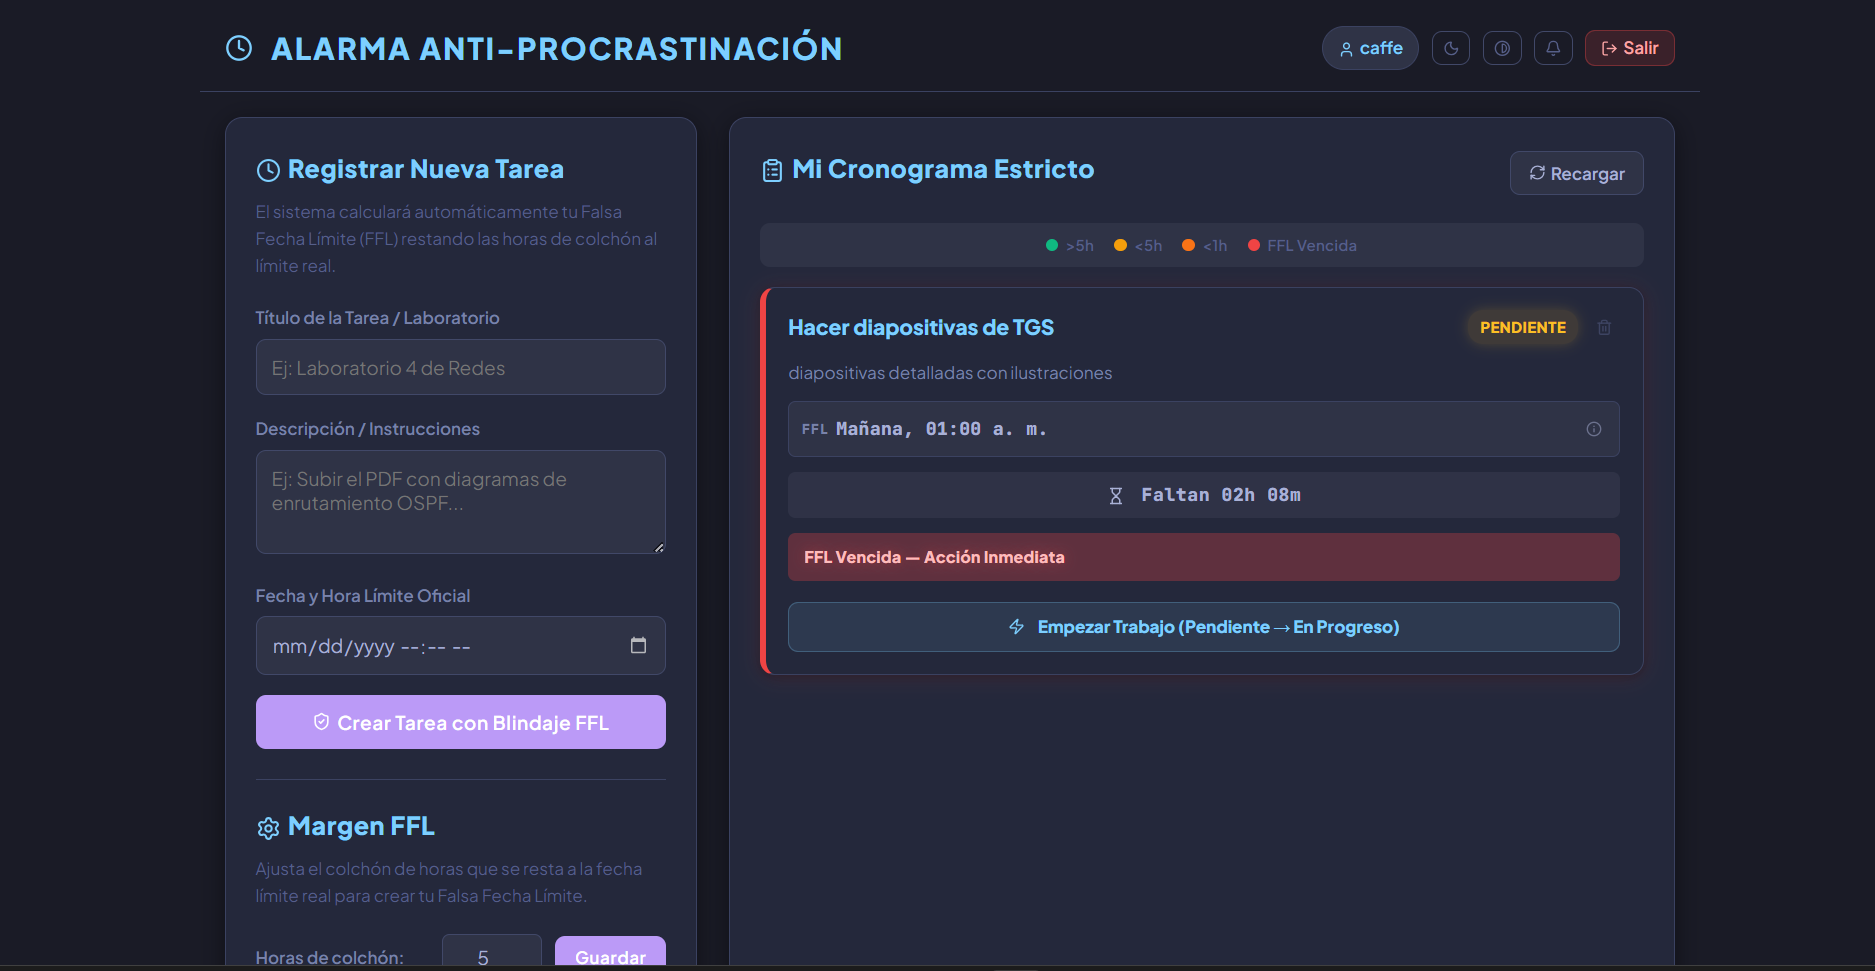
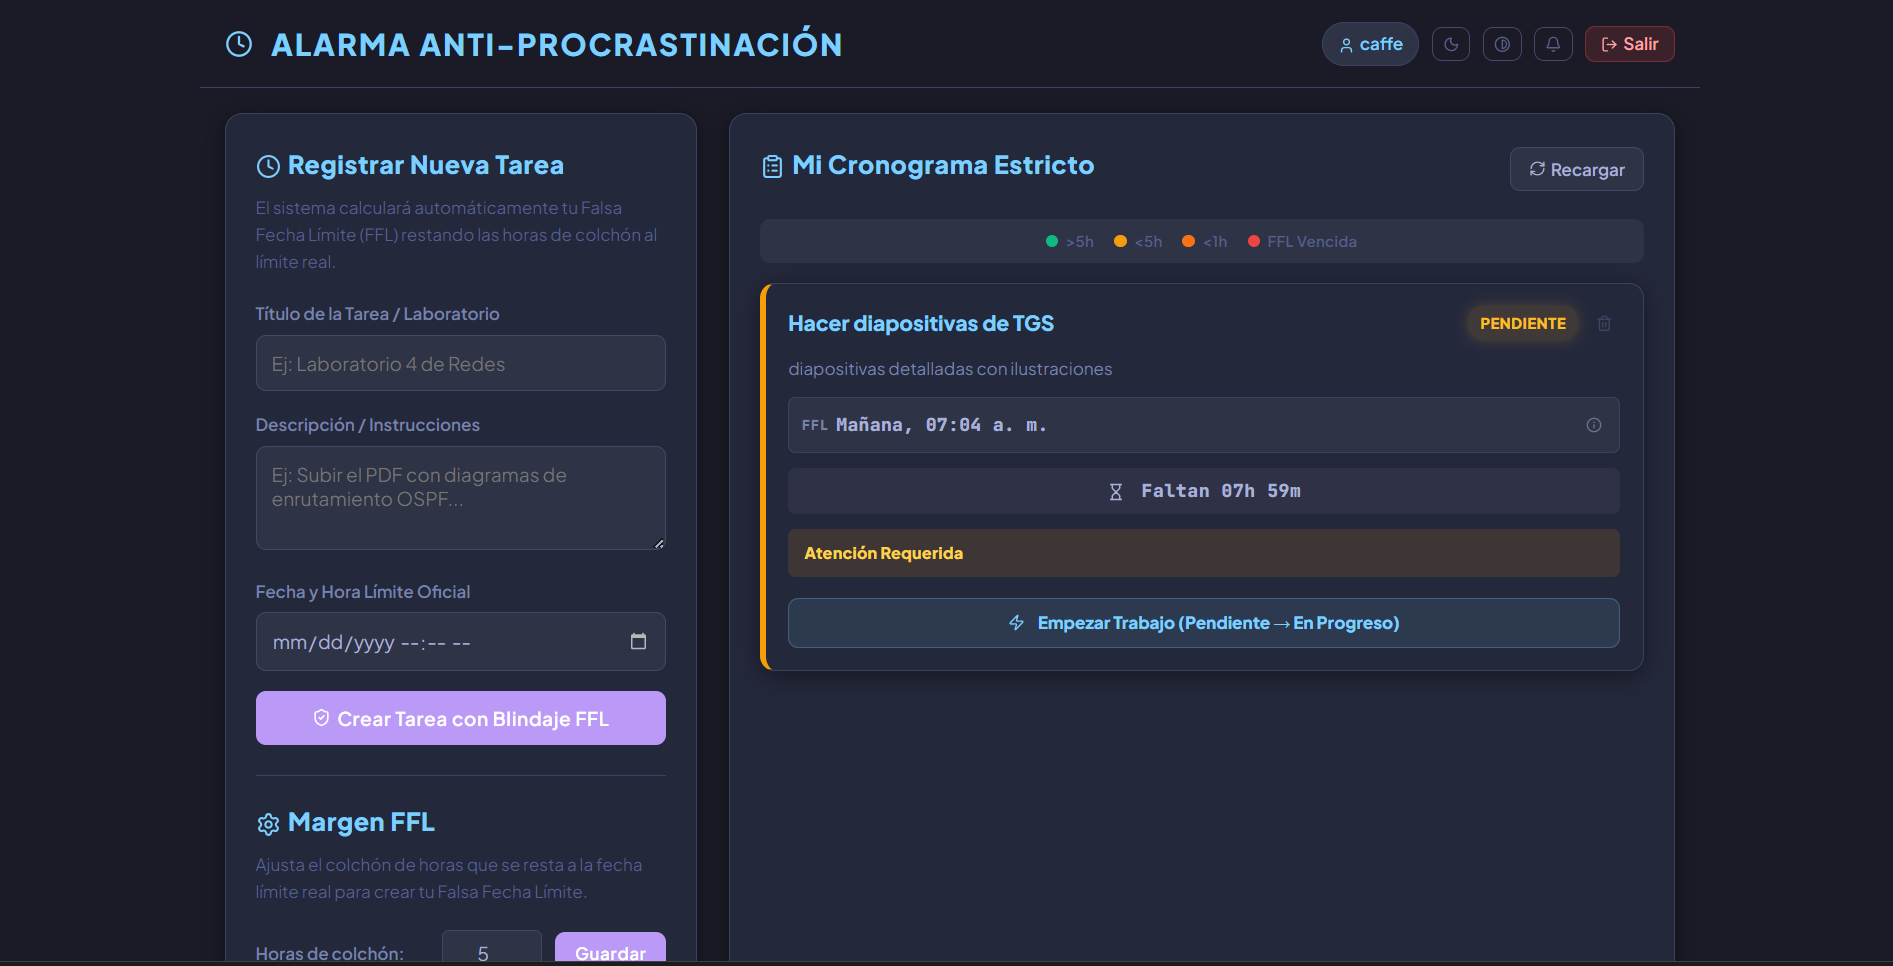
add guia de uso

diff --git a/README.md b/README.md
@@ -9,7 +9,24 @@ Sistema de alerta y gestion estricta de plazos academicos con Falsa Fecha Limite
 ## Capturas
 
 ![Pantalla principal](frontend/screenshots/main.png)
+
 ![Alarma critica](frontend/screenshots/alerta-roja.png)
+
+---
+
+## Guia de Uso
+
+![Login](frontend/screenshots/login.png)
+
+**Registro e Inicio de Sesion:** Al abrir la aplicacion por primera vez, crea una cuenta local e inicia sesion para gestionar tus pendientes.
+
+**Registrar una tarea:** Anade tu laboratorio, proyecto o tarea pendiente colocando unicamente la Fecha Limite Real.
+
+**Dejar en ejecucion:** El sistema calculara automaticamente tu "Falsa Fecha Limite" (FFL) restando tu margen de seguridad. No es necesario hacer nada mas, la aplicacion monitoreara el tiempo en segundo plano.
+
+**Atender las alarmas:** A medida que se acerque tu FFL, la aplicacion emitira alertas visuales y sonoras progresivas.
+
+**Completar la tarea:** Una vez termines tu trabajo, cambia el estado de la tarea a "Enviada" para detener las alarmas por completo.
 
 ---
 